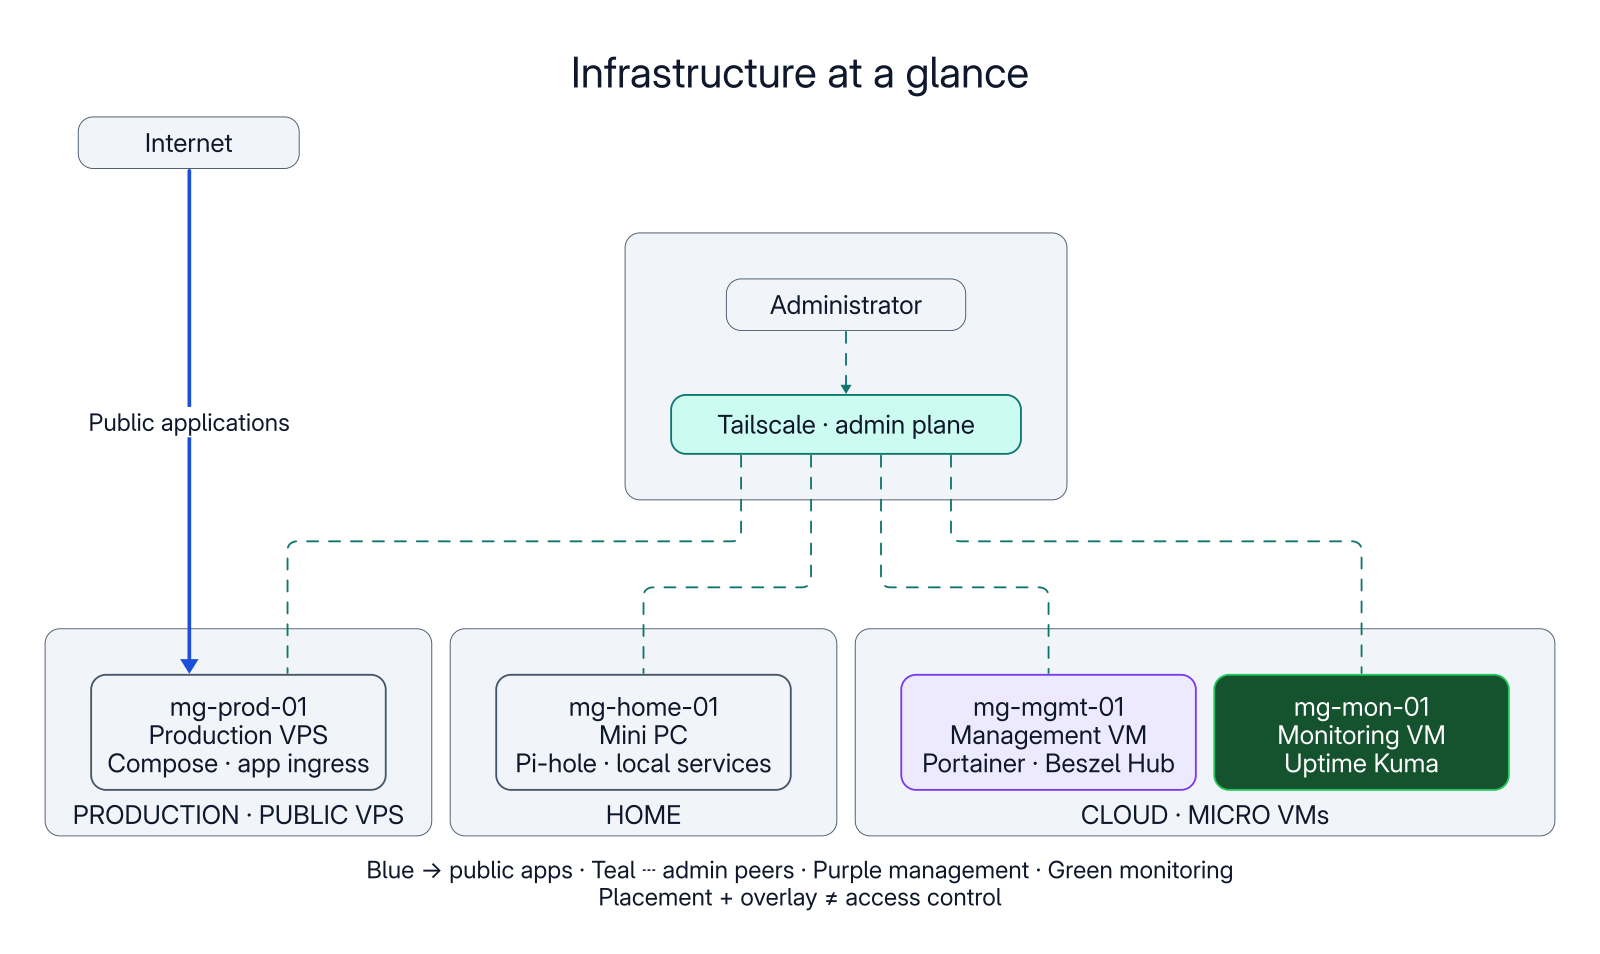
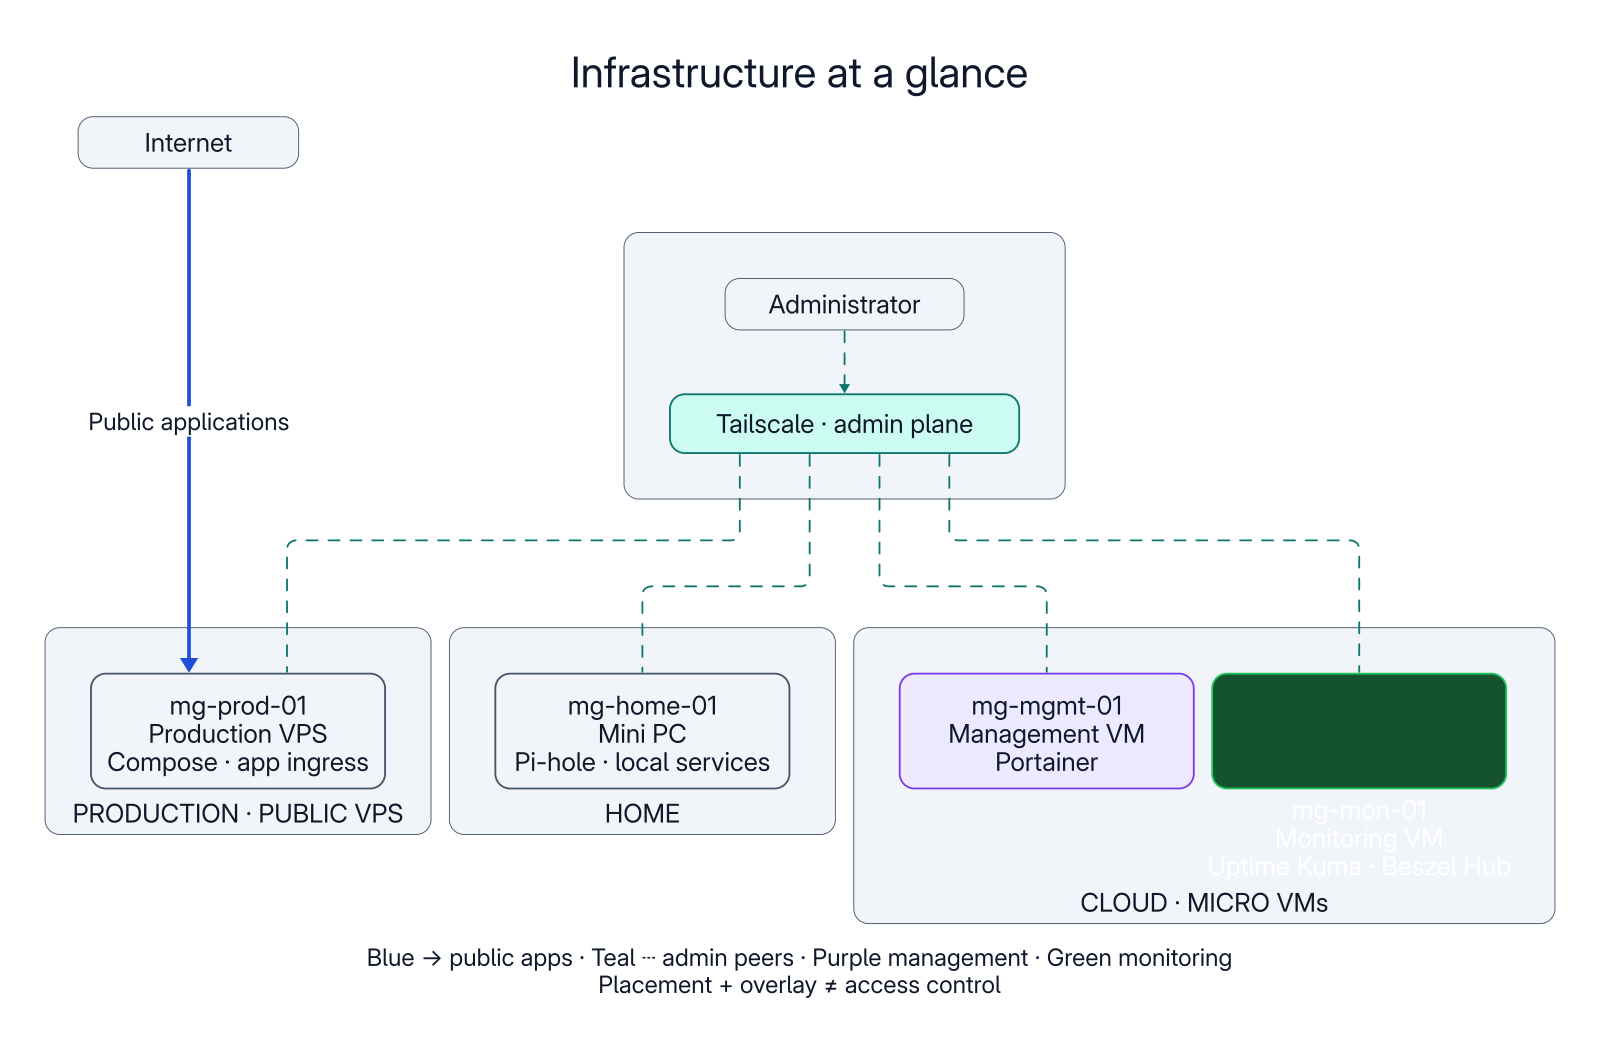
adr 003: the metrics hub moved to the monitoring VM

diff --git a/docs/adr/003-monitoring-isolation.md b/docs/adr/003-monitoring-isolation.md
@@ -4,7 +4,9 @@ Status: **Accepted**
 
 ## Context
 
-Portainer and Beszel share the management VM; Kuma runs on another cloud VM.
+Portainer runs on the management VM; Kuma and the Beszel hub run on another cloud VM.
+
+**Corrected 2026-11-09:** the Beszel hub no longer shares the management VM. It was moved to the monitoring VM, so the two concerns this decision separates are now split by host as well as by purpose. The original wording described the state until that date.
 
 ## Decision
 
